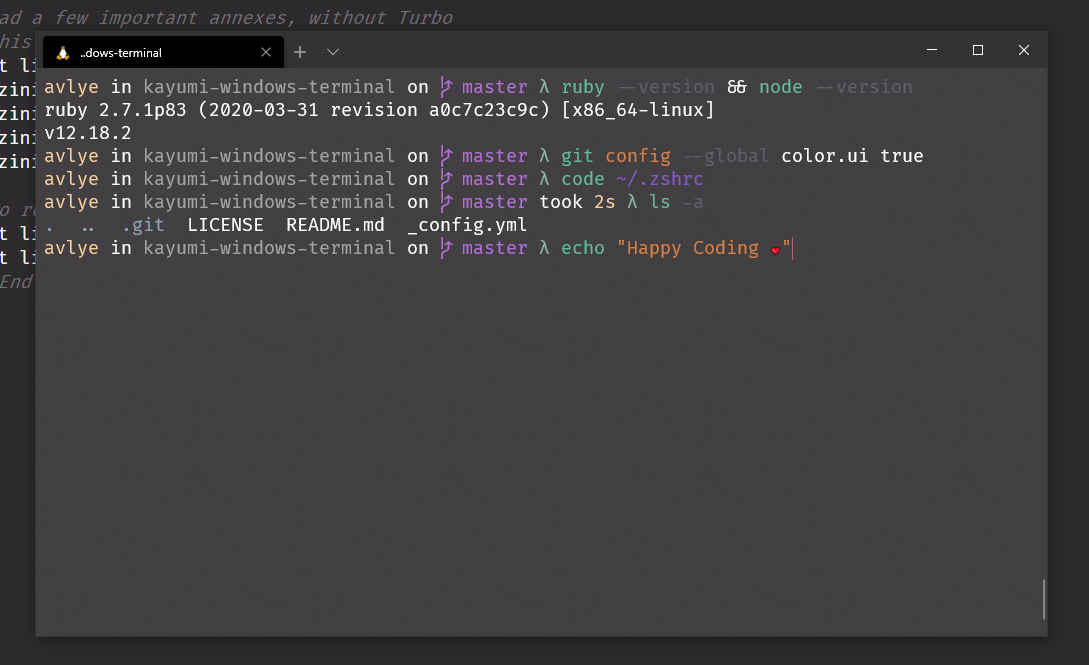
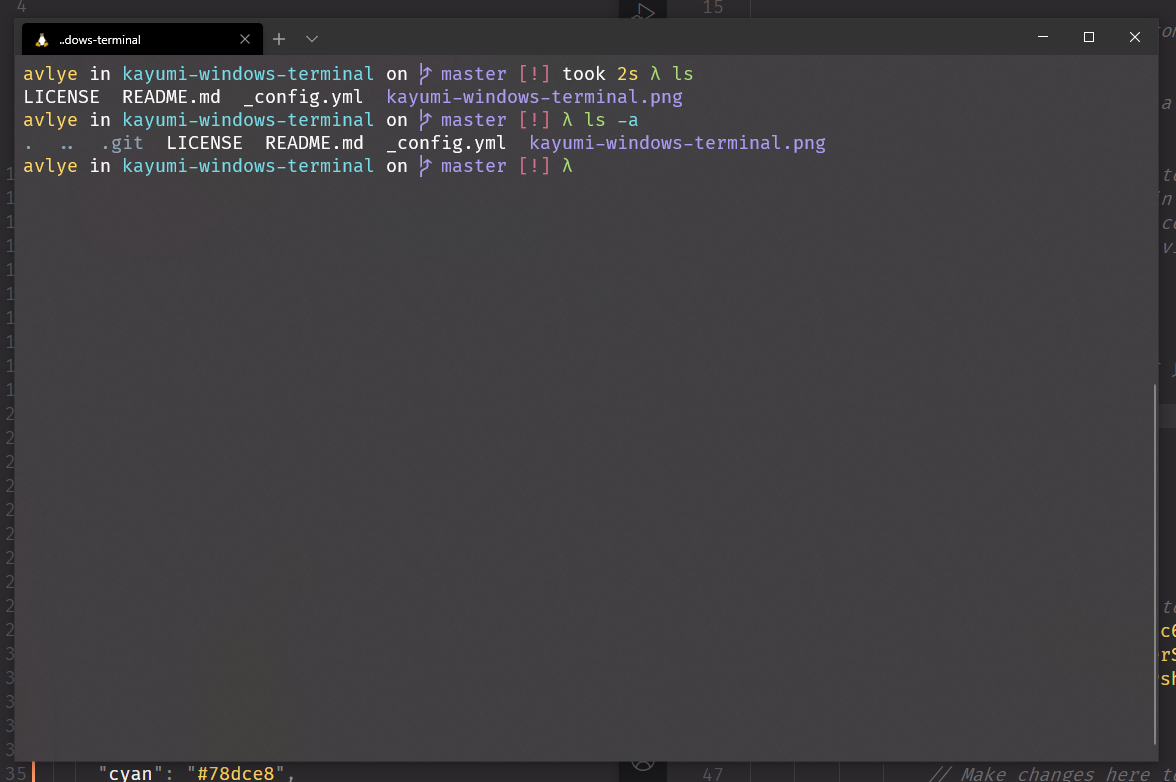
Change Kayumi Color Scheme & Add Light Theme

diff --git a/README.md b/README.md
@@ -20,34 +20,68 @@ In your **settings.json** file, find the *schemes* section and paste the content
 ```json
 
 "schemes": [
-    {
-        "name": "Kayumi",
+  {
+    "name": "Kayumi",
 
-        "background": "#403e41",
-        "foreground": "#fcfcfa",
+    "background": "#403e41",
+    "foreground": "#fcfcfa",
 
-        "black": "#26211E",
-        "red": "#C55984",
-        "green": "#62BB9E",
-        "yellow": "#D78047",
-        "blue": "#6292BB",
-        "purple": "#8459C5",
-        "cyan": "#5E606E",
-        "white": "#F7E3CC",
+    "black": "#403e41",
+    "red": "#C55984",
+    "green": "#a9dc76",
+    "yellow": "#ffd866",
+    "blue": "#6292BB",
+    "purple": "#ab9df2",
+    "cyan": "#78dce8",
+    "white": "#fcfcfa",
 
-        "brightBlack": "#2E2C2D",
-        "brightRed": "#D7708B",
-        "brightGreen": "#8DB9A5",
-        "brightYellow": "#F9CF9F",
-        "brightBlue": "#8DA5B9",
-        "brightPurple": "#B36ED6",
-        "brightCyan": "#A3A3A3",
-        "brightWhite": "#F9F8F1",
+    "brightBlack": "#727072",
+    "brightRed": "#D7708B",
+    "brightGreen": "#a9dc76",
+    "brightYellow": "#ffd866",
+    "brightBlue": "#8DA5B9",
+    "brightPurple": "#ab9df2",
+    "brightCyan": "#78dce8",
+    "brightWhite": "#fcfcfa",
 
-        "cursorColor": "#C55984",
-        "selectionBackground": "#D7708B"
-    }
+    "cursorColor": "#C55984",
+    "selectionBackground": "#D7708B"
+  }
 ]
+
+```
+
+or for the Light Theme
+
+```json
+
+{
+  "name": "Kayumi Light",
+
+  "background": "#fcfcfa",
+  "foreground": "#403e41",
+
+  "black": "#F7E3CC",
+  "red": "#C55984",
+  "green": "#62BB9E",
+  "yellow": "#D78047",
+  "blue": "#6292BB",
+  "purple": "#8459C5",
+  "cyan": "#5E606E",
+  "white": "#26211E",
+
+  "brightBlack": "#F9F8F1",
+  "brightRed": "#D7708B",
+  "brightGreen": "#8DB9A5",
+  "brightYellow": "#F9CF9F",
+  "brightBlue": "#8DA5B9",
+  "brightPurple": "#B36ED6",
+  "brightCyan": "#A3A3A3",
+  "brightWhite": "#2E2C2D",
+
+  "cursorColor": "#C55984",
+  "selectionBackground": "#D7708B"
+}
 
 ```
 
